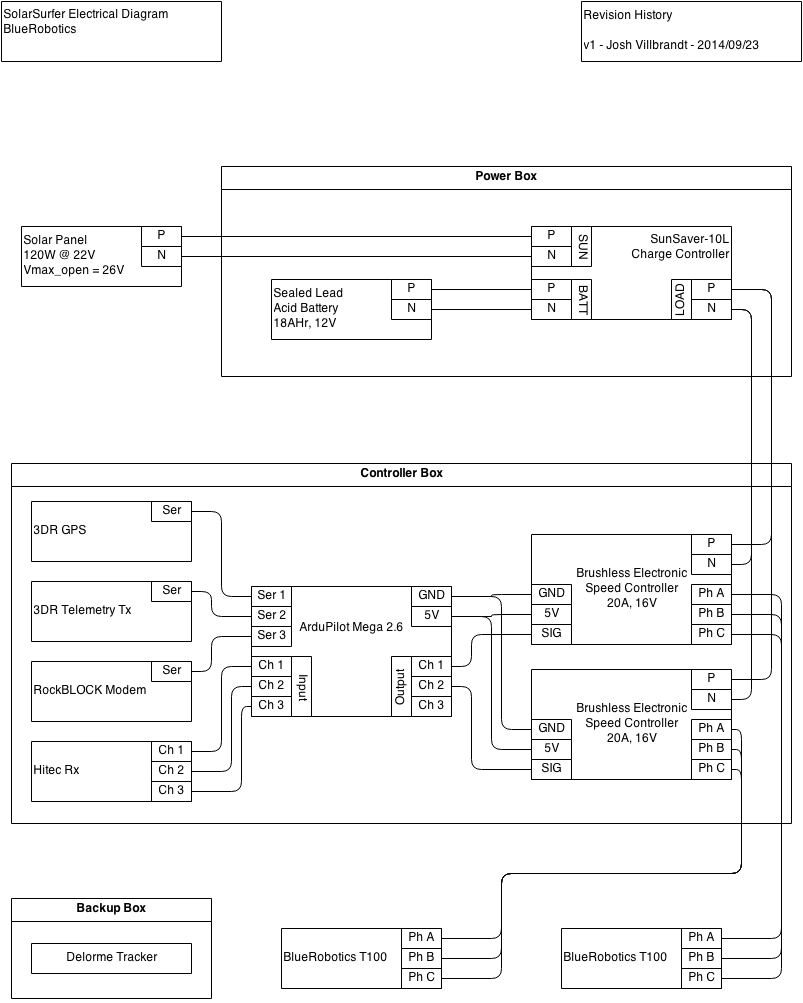
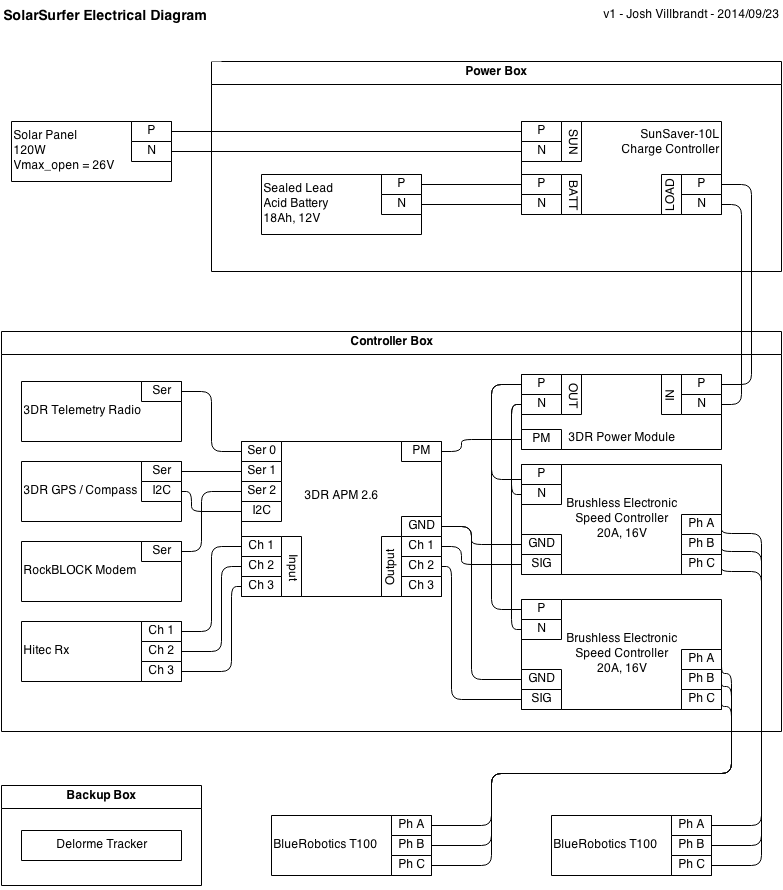
Fix electrical diagram bugs

diff --git a/README.md b/README.md
@@ -22,6 +22,7 @@ The following hardware is used:
 ## Electrical
 
 * [3DR APM 2.6](http://store.3drobotics.com/products/apm-2-6-kit-1)
+* [3DR Power Module](https://store.3drobotics.com/products/apm-power-module-with-xt60-connectors) for 5V power regulation and current monitoring
 * [3DR uBlox GPS with Compass](http://store.3drobotics.com/products/3dr-gps-ublox-with-compass) - for position tracking
 * [3DR Radio](http://store.3drobotics.com/products/3dr-radio) for short-range telemetry
 * [Hitec Optima 6 Rx](http://hitecrcd.com/products/aircraft-radios-receivers-and-accessories/2.4ghz-aircraft-receivers-modules/optima-6-6-channel-2.4ghz-receiver/product) for manual control
